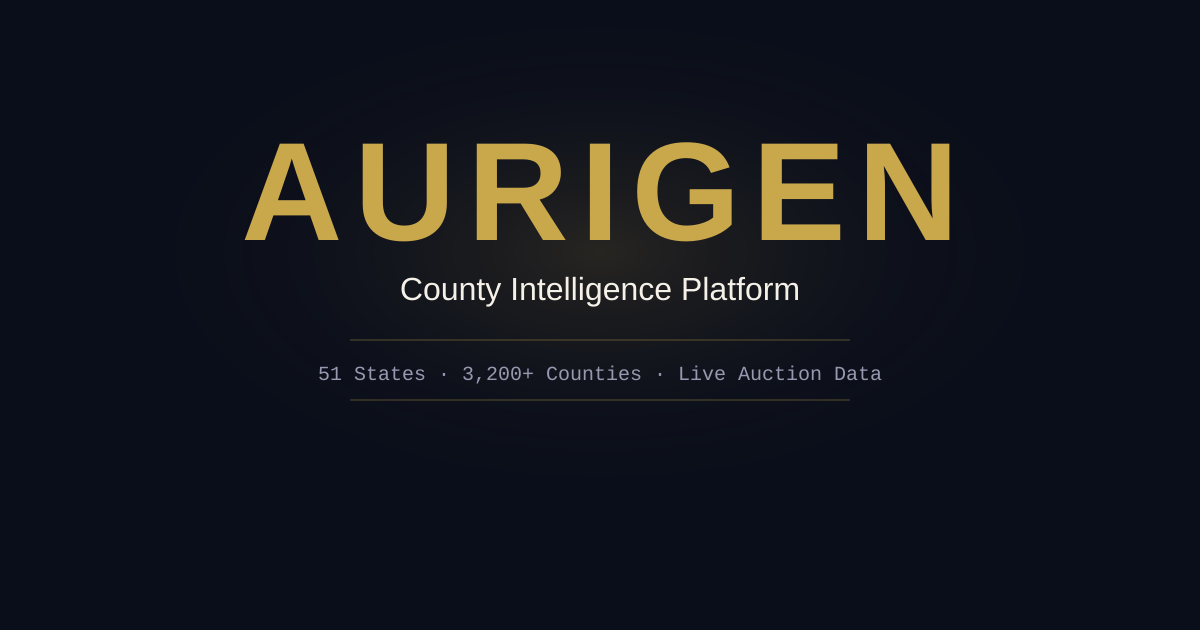
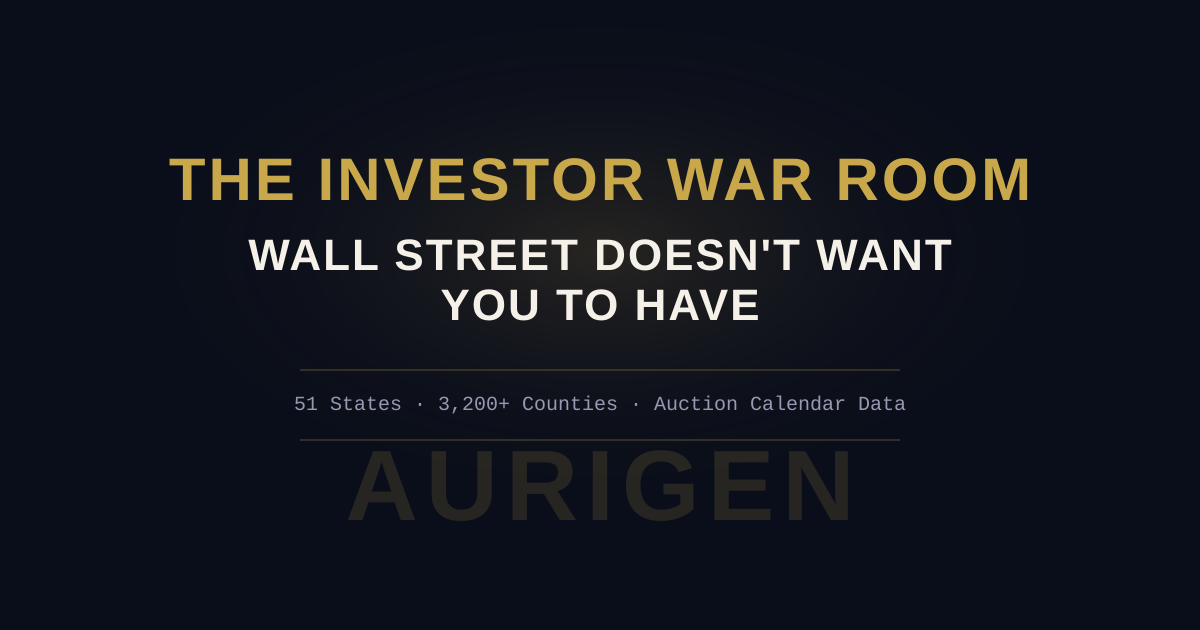
feat: Session 16 — copy advisories, ES fixes, Sage starters, og-image, PWA prompt
- Copy: "Live auction data" → "Auction calendar data" across gate.html, og-image, i18n
- Copy: "unlimited Sage" → "full Sage access" in boot.js + sage-query.js
- ES: type_lien→Tax Lien, type_deed→Tax Deed (keep English for bilingual audience)
- ES: REDENCIÓN→PERÍODO DE RESCATE (3 instances)
- ES: Negocio→Operación/Inversión (6 instances), Cazador de Oportunidades
- Sage starters: expanded to 5 per archetype set (was 3-4)
- og-image: updated with new headline text + "Auction Calendar Data"
- PWA: manifest.json, apple-mobile-web-app meta tags, ATHS banner with iOS instructions
- get-states.js: added lazy cleanup to rate limit map

https://claude.ai/code/session_01R772q47DWeAZ6nzRQJv6zS

diff --git a/warroom-billion.html b/warroom-billion.html
@@ -15,6 +15,10 @@
   <meta name="twitter:description" content="Tax lien and tax deed intelligence for all 50 states + DC.">
   <meta name="twitter:image" content="https://directory.theaurigen.com/og-image.png">
   <link rel="canonical" href="https://directory.theaurigen.com">
+  <link rel="manifest" href="/manifest.json">
+  <meta name="apple-mobile-web-app-capable" content="yes">
+  <meta name="apple-mobile-web-app-status-bar-style" content="black-translucent">
+  <meta name="apple-mobile-web-app-title" content="Aurigen">
   <link rel="preconnect" href="https://fonts.googleapis.com">
   <link href="https://fonts.googleapis.com/css2?family=Bebas+Neue&family=Cormorant+Garamond:wght@300;600&family=Plus+Jakarta+Sans:wght@300;400;500;600;700&family=Space+Mono:wght@400;700&display=swap" rel="stylesheet">
   <script src="https://cdnjs.cloudflare.com/ajax/libs/d3/7.8.5/d3.min.js"></script>
@@ -1024,5 +1028,71 @@
   </div>
 </div>
 <script src="js/aurigen-admin.js"></script>
+<!-- Add to Home Screen prompt -->
+<div id="aths-banner" style="display:none;position:fixed;bottom:0;left:0;right:0;z-index:9999;background:#14141e;border-top:1px solid rgba(201,168,76,0.25);padding:14px 16px;font-family:'Plus Jakarta Sans',sans-serif">
+  <div style="display:flex;align-items:center;gap:12px;max-width:600px;margin:0 auto">
+    <div style="flex:0 0 36px;height:36px;background:rgba(201,168,76,0.12);border-radius:8px;display:flex;align-items:center;justify-content:center;font-size:18px">&#9733;</div>
+    <div style="flex:1;font-size:13px;color:#e8e4dc;line-height:1.4">Add Aurigen to your home screen for faster access</div>
+    <button id="aths-add" style="flex:0 0 auto;padding:8px 16px;background:var(--accent,#c9a84c);color:#06060a;border:none;border-radius:6px;font-size:12px;font-weight:700;cursor:pointer;letter-spacing:0.04em">ADD</button>
+    <button id="aths-dismiss" style="flex:0 0 auto;padding:8px;background:none;border:none;color:#9898b0;font-size:18px;cursor:pointer;line-height:1">&times;</button>
+  </div>
+</div>
+<!-- iOS ATHS instructions modal -->
+<div id="aths-ios-modal" style="display:none;position:fixed;inset:0;z-index:10000;background:rgba(0,0,0,0.7);justify-content:center;align-items:center">
+  <div style="background:#14141e;border:1px solid rgba(201,168,76,0.2);border-radius:12px;padding:24px;max-width:320px;margin:20px;text-align:center;font-family:'Plus Jakarta Sans',sans-serif">
+    <div style="font-family:'Bebas Neue',sans-serif;font-size:22px;color:#c9a84c;letter-spacing:0.04em;margin-bottom:12px">ADD TO HOME SCREEN</div>
+    <div style="font-size:13px;color:#e8e4dc;line-height:1.6;margin-bottom:8px">1. Tap the <strong style="color:#c9a84c">Share</strong> button <span style="font-size:16px">&#9757;</span></div>
+    <div style="font-size:13px;color:#e8e4dc;line-height:1.6;margin-bottom:16px">2. Scroll down and tap <strong style="color:#c9a84c">"Add to Home Screen"</strong></div>
+    <button onclick="document.getElementById('aths-ios-modal').style.display='none'" style="padding:10px 24px;background:var(--accent,#c9a84c);color:#06060a;border:none;border-radius:6px;font-size:13px;font-weight:700;cursor:pointer">GOT IT</button>
+  </div>
+</div>
+<script>
+(function() {
+  // Add to Home Screen logic
+  var _deferredPrompt = null;
+  try {
+    if (localStorage.getItem('aurigen_aths_dismissed') === '1') return;
+    var vc = parseInt(localStorage.getItem('aurigen_visit_count') || '0', 10);
+    vc++;
+    localStorage.setItem('aurigen_visit_count', String(vc));
+    var isMobile = /iPhone|iPad|iPod|Android/i.test(navigator.userAgent);
+    if (!isMobile) return;
+    // Check if already in standalone mode
+    if (window.matchMedia && window.matchMedia('(display-mode: standalone)').matches) return;
+    if (window.navigator && window.navigator.standalone) return;
+    // Capture beforeinstallprompt for Chrome/Android
+    window.addEventListener('beforeinstallprompt', function(e) {
+      e.preventDefault();
+      _deferredPrompt = e;
+    });
+    function showBanner() {
+      var banner = document.getElementById('aths-banner');
+      if (!banner) return;
+      banner.style.display = 'block';
+      document.getElementById('aths-add').onclick = function() {
+        if (_deferredPrompt) {
+          _deferredPrompt.prompt();
+          _deferredPrompt.userChoice.then(function() { _deferredPrompt = null; });
+          banner.style.display = 'none';
+        } else {
+          // iOS Safari — show instructions modal
+          document.getElementById('aths-ios-modal').style.display = 'flex';
+          banner.style.display = 'none';
+        }
+      };
+      document.getElementById('aths-dismiss').onclick = function() {
+        banner.style.display = 'none';
+        try { localStorage.setItem('aurigen_aths_dismissed', '1'); } catch(e2) {}
+      };
+    }
+    // Show after 30s OR on 2nd visit
+    if (vc >= 2) {
+      setTimeout(showBanner, 2000);
+    } else {
+      setTimeout(showBanner, 30000);
+    }
+  } catch(e) {}
+})();
+</script>
 </body>
 </html>

diff --git a/js/aurigen-boot.js b/js/aurigen-boot.js
@@ -142,33 +142,44 @@ var SAGE_PROMPTS = {
   yield: [
     'Which states have the highest lien rates?',
     'How does bid-down interest work?',
-    'Best OTC opportunities for yield?'
+    'Best OTC opportunities for yield?',
+    'What returns can I expect on a $10,000 lien?',
+    'Which states pay interest monthly vs at redemption?'
   ],
   hunter: [
     'Which deed states have the lowest competition?',
     'How do I acquire property through tax sales?',
-    'Compare Texas vs Georgia for deed investing'
+    'Compare Texas vs Georgia for deed investing',
+    'What is the typical equity cushion in deed sales?',
+    'How do I research a property before bidding?'
   ],
   patient: [
     'Which states have the longest redemption periods?',
     'How do multi-year liens compound?',
-    'Best states for passive lien investing?'
+    'Best states for passive lien investing?',
+    'What happens if a lien doesn\u2019t redeem?',
+    'How do I build a long-term lien portfolio?'
   ],
   local: [
     'How do in-person county auctions work?',
     'Which states have the best OTC programs?',
-    'How to build county relationships?'
+    'How to build county relationships?',
+    'What documents do I need for a county auction?',
+    'How do I find upcoming auctions in my area?'
   ],
   portfolio: [
     'How to diversify across lien and deed states?',
     'Compare Florida vs Texas for portfolio balance',
-    'What allocation strategy works for tax liens?'
+    'What allocation strategy works for tax liens?',
+    'How many states should I invest in?',
+    'What is the ideal lien-to-deed ratio?'
   ],
   default: [
     'Which states are best for beginners?',
     'How does bid-down interest work?',
     'Compare Florida vs Texas',
-    'What can I do with $5,000?'
+    'What can I do with $5,000?',
+    'What is the difference between a lien and a deed?'
   ]
 };
 
@@ -294,7 +305,7 @@ function sendAdvisorMessage() {
   var _sageFreeCount = 0;
   try { _sageFreeCount = parseInt(sessionStorage.getItem('aurigen_sage_free_count') || '0', 10); } catch(e) {}
   if (!IS_PAID && _sageFreeCount >= 3) {
-    typing.innerHTML = sanitizeHTML('<div class="msg-label">Sage</div><div style="font-size:13px;color:var(--text2);line-height:1.6">You\u2019ve used your 3 free Sage queries for this session. <strong>Upgrade to Full Access</strong> for unlimited AI-powered research.</div>');
+    typing.innerHTML = sanitizeHTML('<div class="msg-label">Sage</div><div style="font-size:13px;color:var(--text2);line-height:1.6">You\u2019ve used your 3 free Sage queries for this session. <strong>Upgrade to Full Access</strong> for full AI-powered research access.</div>');
     msgs.scrollTop = msgs.scrollHeight;
     return;
   }
@@ -339,7 +350,7 @@ function sendAdvisorMessage() {
     }
     // CTA every 3rd response for free users
     if (!IS_PAID && _sageQuestionCount % 3 === 0) {
-      rendered += '<div style="margin-top:10px;font-size:11px"><a href="https://buy.stripe.com/14AaEXfcU3aYdCX55E2VG02" target="_blank" rel="noopener noreferrer" style="color:var(--accent);text-decoration:none">Unlock unlimited Sage \u2192</a></div>';
+      rendered += '<div style="margin-top:10px;font-size:11px"><a href="https://buy.stripe.com/14AaEXfcU3aYdCX55E2VG02" target="_blank" rel="noopener noreferrer" style="color:var(--accent);text-decoration:none">Unlock full Sage access \u2192</a></div>';
     }
     typing.innerHTML = sanitizeHTML('<div class="msg-label">Sage</div>' + rendered);
     msgs.scrollTop = msgs.scrollHeight;

diff --git a/js/aurigen-core-gate.js b/js/aurigen-core-gate.js
@@ -237,7 +237,7 @@ var I18N = {
     scout_disclaimer:'This checklist is for educational and research purposes only. It does not constitute legal, financial, or investment advice. Always conduct independent due diligence and consult a qualified professional before investing.',
     // Auctions
     auctions_lock_title:'UNLOCK AUCTIONS',
-    auctions_lock_desc:'Live and upcoming auction calendar across all 51 states. Filter by state, format, and date. Never miss a sale in your target market.',
+    auctions_lock_desc:'Upcoming auction calendar across all 51 states. Filter by state, format, and date. Never miss a sale in your target market.',
     auctions_register:'Register \u2192',
     auctions_online:'ONLINE', auctions_in_person:'IN-PERSON',
     // Account
@@ -324,13 +324,13 @@ var I18N = {
     mfp_title:'Inteligencia Estatal', mfp_subtitle:'51 jurisdicciones \u00B7 Haz clic en cualquier estado',
     mfp_search_placeholder:'Buscar estados\u2026',
     mfp_filter_title:'FILTRAR POR TIPO',
-    type_lien:'Gravamen Fiscal', type_deed:'Escritura Fiscal', type_redeemable:'Redimible',
+    type_lien:'Tax Lien', type_deed:'Tax Deed', type_redeemable:'Redimible',
     type_hybrid:'H\u00edbrido', type_forfeiture:'Confiscaci\u00f3n', type_all:'TODOS',
     mfp_show_all:'Mostrar Todo',
     map_footer_left:'AURIGEN \u00B7 INTELIGENCIA DE INVERSI\u00d3N FISCAL \u00B7 2026',
     map_footer_right:'51 JURISDICCIONES',
     // State modal
-    stat_yield:'TASA DE RENDIMIENTO', stat_redemption:'REDENCI\u00d3N', stat_bid:'M\u00c9TODO DE PUJA',
+    stat_yield:'TASA DE RENDIMIENTO', stat_redemption:'PER\u00cdODO DE RESCATE', stat_bid:'M\u00c9TODO DE PUJA',
     detail_open:'Ver Detalle Completo \u2192',
     next_step:'Siguiente Paso',
     next_step_compare:'Ver c\u00f3mo se compara {state}',
@@ -342,7 +342,7 @@ var I18N = {
     vs_cmd_prefix:'$ aurigen comparar',
     vs_state_a:'ESTADO A:', vs_state_b:'ESTADO B:',
     vs_col_metric:'M\u00c9TRICA',
-    vs_type:'TIPO', vs_yield:'TASA DE RENDIMIENTO', vs_redemption:'REDENCI\u00d3N',
+    vs_type:'TIPO', vs_yield:'TASA DE RENDIMIENTO', vs_redemption:'PER\u00cdODO DE RESCATE',
     vs_bid:'M\u00c9TODO DE PUJA', vs_platform:'PLATAFORMA', vs_beginner:'PRINCIPIANTE',
     vs_edge:'VENTAJA',
     vs_analysis:'> AN\u00c1LISIS',
@@ -352,7 +352,7 @@ var I18N = {
     vs_lock_desc:'Compara dos estados lado a lado \u2014 tasas de rendimiento, per\u00edodos de redenci\u00f3n, m\u00e9todos de puja y plataformas. Dise\u00f1ado para inversores eligiendo su pr\u00f3ximo mercado.',
     // DNA
     dna_lock_title:'DESBLOQUEAR PERFIL DNA',
-    dna_lock_desc:'Responde 6 preguntas. Obt\u00e9n tu arquetipo de inversor \u2014 Maximizador de Rendimiento, Cazador de Negocios, Capitalista Paciente, Operador Local, o Constructor de Portafolio. Cada herramienta se adapta a tu perfil.',
+    dna_lock_desc:'Responde 6 preguntas. Obt\u00e9n tu arquetipo de inversor \u2014 Maximizador de Rendimiento, Cazador de Oportunidades, Capitalista Paciente, Operador Local, o Constructor de Portafolio. Cada herramienta se adapta a tu perfil.',
     dna_title:'ADN DE INVERSOR',
     dna_continue:'Continuar', dna_back:'Atr\u00e1s',
     dna_top_matches:'MEJORES COINCIDENCIAS', dna_signals:'SE\u00d1ALES DE PERFIL',
@@ -368,7 +368,7 @@ var I18N = {
     sage_send:'Enviar',
     sage_disclaimer:'Sage es un asistente de investigaci\u00f3n educativa, no un asesor financiero. No constituye asesoramiento financiero, legal o de inversi\u00f3n. Siempre verifica la informaci\u00f3n con fuentes oficiales.',
     // Tools / Analyzer
-    tools_lock_title:'DESBLOQUEAR ANALIZADOR DE NEGOCIOS',
+    tools_lock_title:'DESBLOQUEAR ANALIZADOR DE INVERSIONES',
     tools_lock_desc:'Calcula n\u00fameros reales para cualquier negocio. Ingresa precio de compra, impuestos atrasados, ARV. Obt\u00e9n ROI proyectado, margen de seguridad y una se\u00f1al clara.',
     da_tab_analyzer:'Analizador', da_tab_quick:'Herramientas R\u00e1pidas', da_tab_summary:'Mi Resumen',
     da_amount_label:'Monto de Inversi\u00f3n',
@@ -383,7 +383,7 @@ var I18N = {
     scout_lock_title:'DESBLOQUEAR SCOUT',
     scout_lock_desc:'Lista de verificaci\u00f3n de debida diligencia de 10 pasos para cualquier propiedad. Revisa t\u00edtulo, grav\u00e1menes, condici\u00f3n, comparables y estrategia de salida antes de gastar un d\u00f3lar.',
     scout_title:'SCOUT', scout_sub:'RASTREADOR DE DEBIDA DILIGENCIA',
-    scout_new:'+ Nuevo Negocio',
+    scout_new:'+ Nueva Operaci\u00f3n',
     scout_why:'POR QU\u00c9 IMPORTA', scout_how:'C\u00d3MO HACERLO',
     scout_where:'D\u00d3NDE', scout_red:'SE\u00d1ALES DE ALERTA', scout_pro:'CONSEJO PRO',
     scout_notes:'TUS NOTAS', scout_notes_placeholder:'Agrega tus notas para este paso\u2026',
@@ -391,7 +391,7 @@ var I18N = {
     scout_disclaimer:'Esta lista es solo para fines educativos y de investigaci\u00f3n. No constituye asesoramiento legal, financiero o de inversi\u00f3n. Siempre realiza una debida diligencia independiente y consulta con un profesional calificado antes de invertir.',
     // Auctions
     auctions_lock_title:'DESBLOQUEAR SUBASTAS',
-    auctions_lock_desc:'Calendario de subastas en vivo y pr\u00f3ximas en los 51 estados. Filtra por estado, formato y fecha. No te pierdas ninguna venta en tu mercado objetivo.',
+    auctions_lock_desc:'Calendario de pr\u00f3ximas subastas en los 51 estados. Filtra por estado, formato y fecha. No te pierdas ninguna venta en tu mercado objetivo.',
     auctions_register:'Registrarse \u2192',
     auctions_online:'EN L\u00cdNEA', auctions_in_person:'EN PERSONA',
     // Account
@@ -402,7 +402,7 @@ var I18N = {
     acct_locked_val:'Condados, DNA, Versus, Analizador, Sage, Scout, Warbook, Deadlines, Recon, Dossier, Subastas, Pulse',
     acct_what_unlock:'LO QUE DESBLOQUEAS',
     vc_county:'Directorio de Condados', vc_dna:'Perfil de Inversor DNA',
-    vc_versus:'Comparaci\u00f3n Versus', vc_analyzer:'Analizador de Negocios',
+    vc_versus:'Comparaci\u00f3n Versus', vc_analyzer:'Analizador de Inversiones',
     vc_sage:'Asesor IA Sage', vc_scout:'Debida Diligencia Scout',
     vc_auctions:'Calendario de Subastas', vc_pulse:'Alertas Pulse',
     acct_value_total:'Valor total estimado si se compra como herramientas separadas: $1,500+/a\u00f1o \u2014 tuyo por $197 una vez.',
@@ -449,7 +449,7 @@ var I18N = {
     acct_referral_title:'PROGRAMA DE REFERIDOS',
     acct_feature_compare:'COMPARACI\u00d3N DE FUNCIONES',
     // County panel labels
-    county_yield:'TASA DE RENDIMIENTO', county_redemption:'REDENCI\u00d3N', county_bid:'M\u00c9TODO DE PUJA',
+    county_yield:'TASA DE RENDIMIENTO', county_redemption:'PER\u00cdODO DE RESCATE', county_bid:'M\u00c9TODO DE PUJA',
     county_view:'Ver', county_counties:'CONDADOS', county_county:'CONDADO',
     county_search:'Buscar condados\u2026', county_empty:'Datos de condados disponibles pr\u00f3ximamente para',
     county_otc:'OTC',
@@ -457,13 +457,13 @@ var I18N = {
     score_elite:'\u00c9LITE', score_strong:'FUERTE', score_moderate:'MODERADO', score_weak:'D\u00c9BIL',
     score_pending:'Puntuaci\u00f3n pendiente',
     // First Deal flow
-    fd_title:'MI PRIMER NEGOCIO', fd_step:'Paso',
+    fd_title:'MI PRIMERA OPERACI\u00d3N', fd_step:'Paso',
     fd_step1:'ELIGE TU ESTADO', fd_step1_desc:'Haz clic en cualquier estado del mapa para comenzar.',
     fd_step2:'ELIGE UN CONDADO', fd_step2_desc:'Abre un panel de condado para explorar datos locales.',
     fd_step3:'GENERA EL DOSSIER', fd_step3_desc:'Genera tu informe de inversor para este condado.',
     fd_step4:'LISTA DE SCOUT', fd_step4_desc:'Ejecuta la debida diligencia en tu propiedad objetivo.',
     fd_step5:'CONFIGURA UNA ALERTA PULSE', fd_step5_desc:'Guarda este estado para rastrear pr\u00f3ximas subastas.',
-    fd_complete:'TU PRIMER NEGOCIO EST\u00c1 CONFIGURADO',
+    fd_complete:'TU PRIMERA OPERACI\u00d3N EST\u00c1 LISTA',
     fd_upgrade:'Desbloquea acceso completo para continuar tu primer negocio \u2192'
   }
 };

diff --git a/gate.html b/gate.html
@@ -781,7 +781,7 @@
   <!-- Hero headline + CTA -->
   <div class="hero-content">
     <h1 class="hero-headline">The investor war room Wall Street doesn't want you to have</h1>
-    <div class="hero-sub" style="font-family:'Plus Jakarta Sans',sans-serif;font-size:clamp(16px,2vw,20px);color:#9898b0;margin-top:12px;line-height:1.5">3,200+ counties. Live auction data. One-time access.</div>
+    <div class="hero-sub" style="font-family:'Plus Jakarta Sans',sans-serif;font-size:clamp(16px,2vw,20px);color:#9898b0;margin-top:12px;line-height:1.5">3,200+ counties. Auction calendar data. One-time access.</div>
     <div class="hero-cta-row">
       <a class="hero-cta-primary" href="https://buy.stripe.com/14AaEXfcU3aYdCX55E2VG02">$197 &mdash; UNLOCK FULL ACCESS &rarr;</a>
       <a class="hero-cta-secondary" href="#access">Start free with 3 states &rarr;</a>
@@ -830,7 +830,7 @@
       <div class="cta-block">
         <div class="cta-eyebrow">Built for serious investors</div>
         <div class="cta-headline">Stop losing deals to investors who already have this data.</div>
-        <div class="cta-subhead">3,200+ counties. Live auction alerts. One price. No subscription.</div>
+        <div class="cta-subhead">3,200+ counties. Auction calendar + alerts. One price. No subscription.</div>
         <a class="cta-primary" href="https://buy.stripe.com/14AaEXfcU3aYdCX55E2VG02" style="background:var(--gold);color:#06060a;border-color:var(--gold);font-weight:700">$197 &mdash; UNLOCK FULL ACCESS &rarr;</a>
         <div class="cta-or-divider">
           <div class="cta-or-line"></div>
@@ -865,7 +865,7 @@
             <div class="pricing-col-period">ONE TIME &mdash; FOREVER</div>
             <ul class="pricing-feature-list">
               <li>All 51 states + 3,200 counties</li>
-              <li>Live auction calendar + alerts</li>
+              <li>Auction calendar + alerts</li>
               <li>Deal Analyzer + DNA Profiler</li>
               <li>Sage AI + Versus + Scout</li>
               <li>Lifetime access, no renewals</li>

diff --git a/netlify/functions/get-states.js b/netlify/functions/get-states.js
@@ -14,6 +14,12 @@ const FREE_IDS = new Set(['FL', 'IL', 'AZ']);
 var _statesRateMap = {};
 function checkStatesRate(ip) {
   var now = Date.now();
+  // Lazy cleanup
+  if (Math.random() < 0.05) {
+    for (var k in _statesRateMap) {
+      if (now - _statesRateMap[k].start > 120000) delete _statesRateMap[k];
+    }
+  }
   if (!_statesRateMap[ip] || now - _statesRateMap[ip].start > 60000) {
     _statesRateMap[ip] = { start: now, count: 1 };
     return true;

diff --git a/netlify/functions/sage-query.js b/netlify/functions/sage-query.js
@@ -1,6 +1,6 @@
 // Aurigen — Sage v2 API Backend
 // POST { message, history[], archetype }
-// JWT validated. Paid users unlimited. Free users: 3 queries per session (enforced client-side).
+// JWT validated. Paid users: full access. Free users: 3 queries per IP per 24h (enforced server-side).
 // Rate limit: 20 req/min per IP.
 
 var { getCorsHeaders, handlePreflight } = require('./utils/cors');
@@ -86,7 +86,7 @@ exports.handler = async function(event) {
       return {
         statusCode: 429,
         headers: Object.assign({}, headers, { 'Retry-After': '86400' }),
-        body: JSON.stringify({ error: 'Free query limit reached. Upgrade for unlimited access.', upgrade: true })
+        body: JSON.stringify({ error: 'Free query limit reached. Upgrade for full access.', upgrade: true })
       };
     }
   }